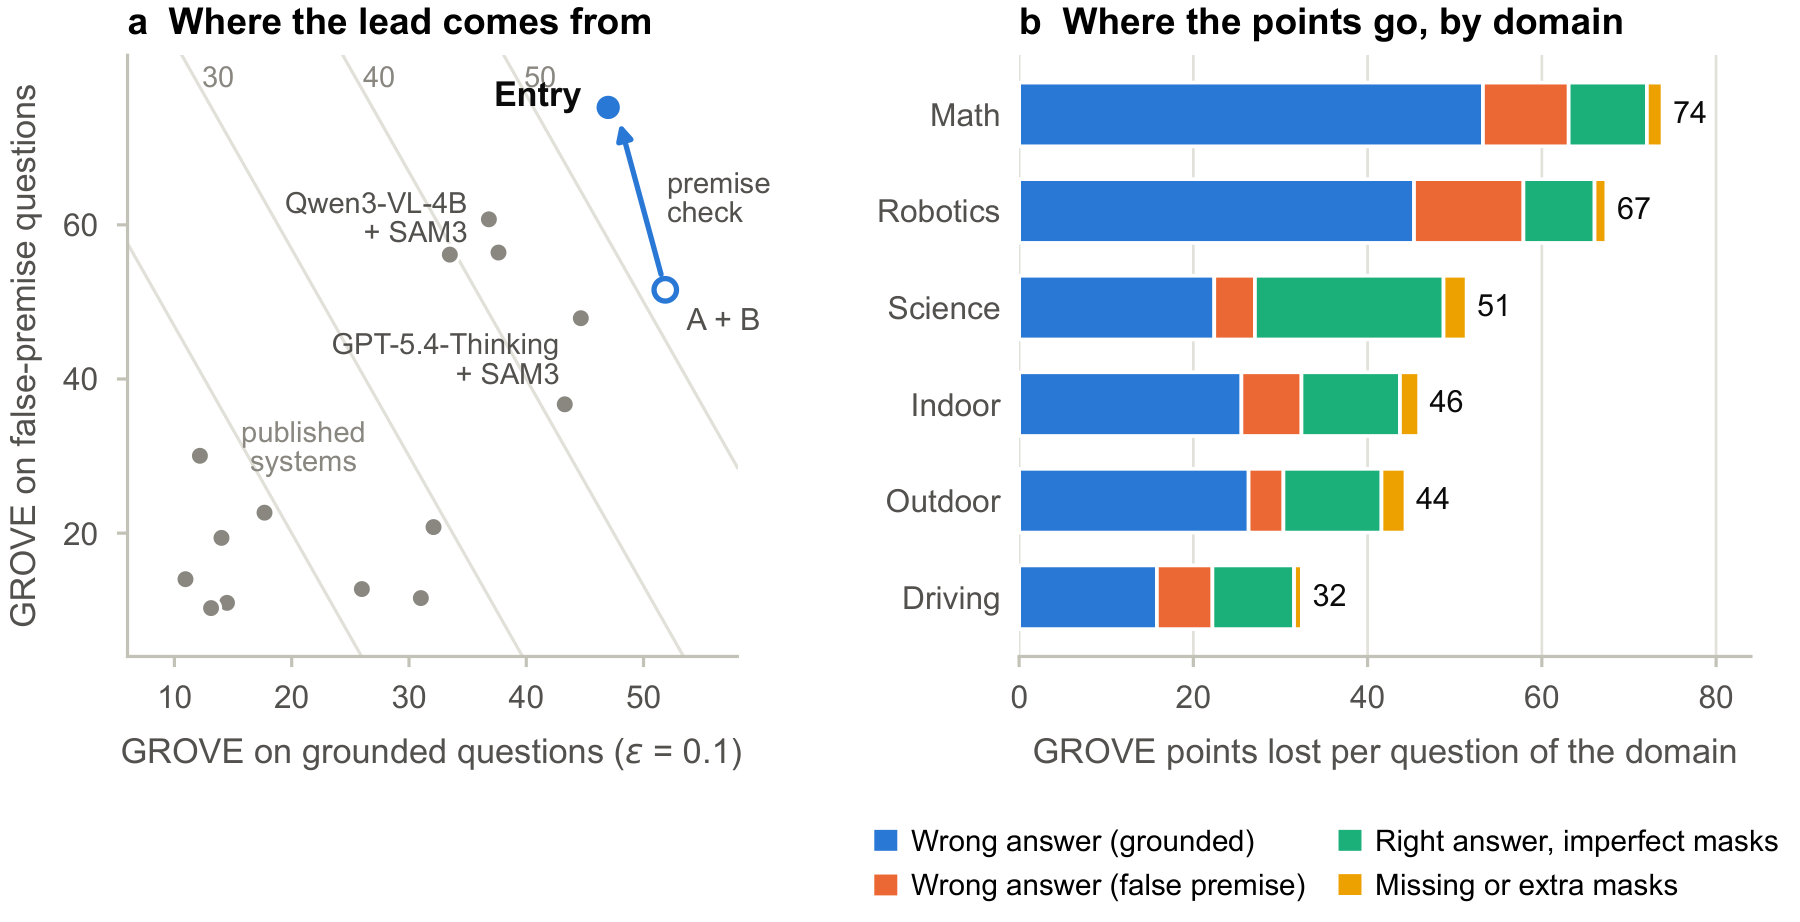
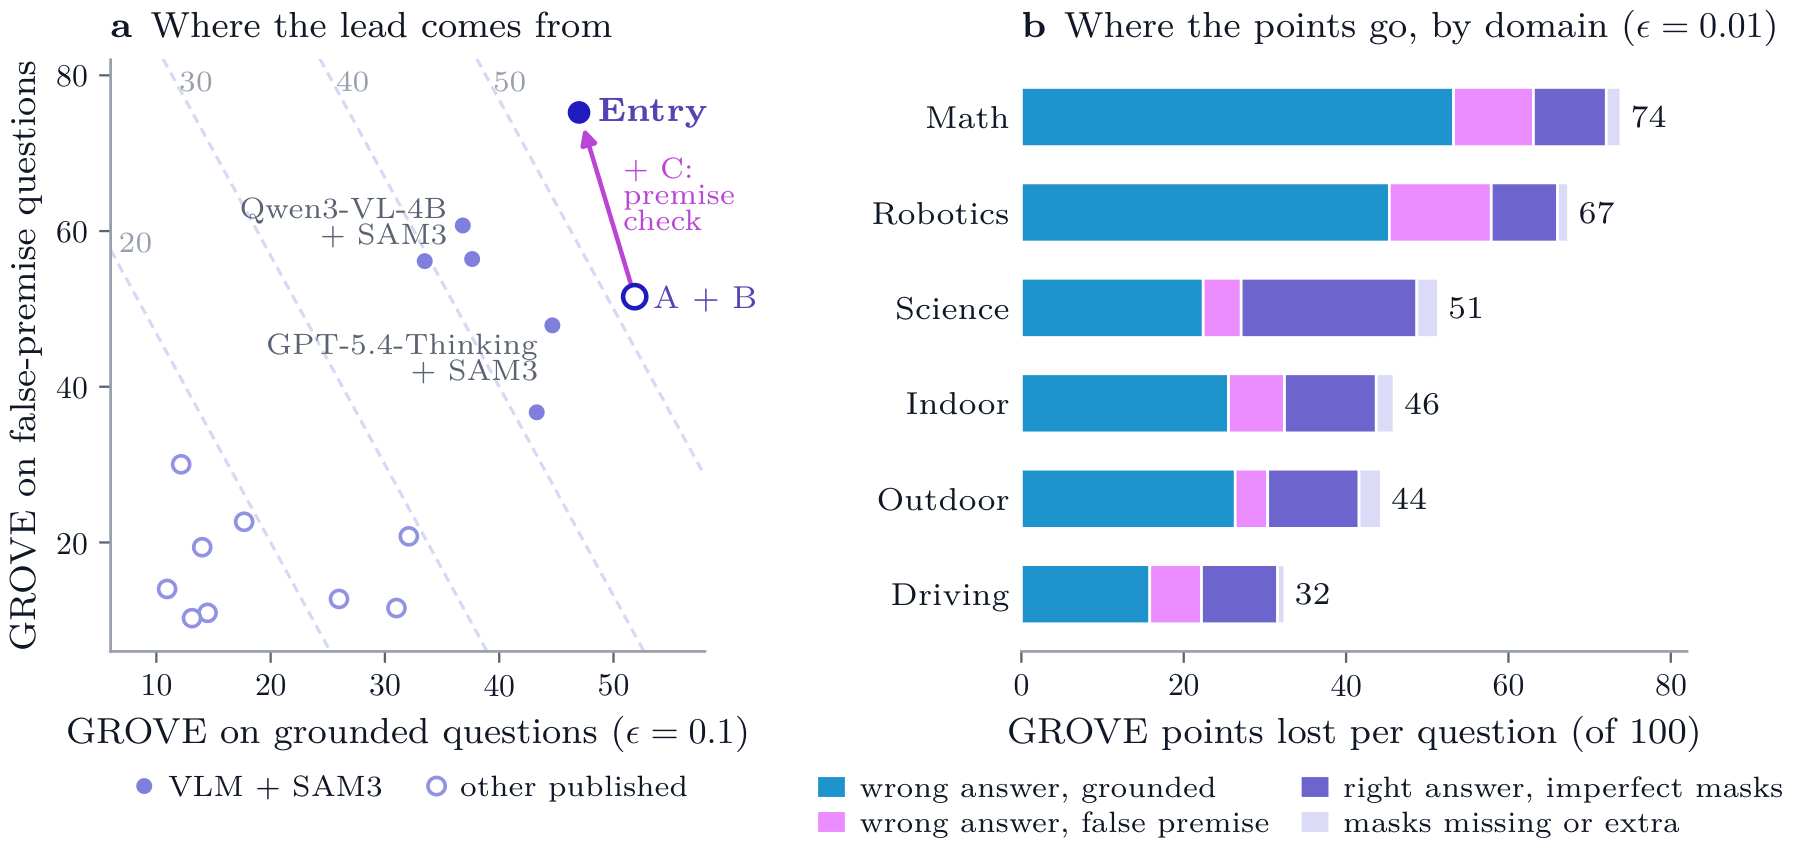
README figures: restyled entry, premise-check and transfer plots from the paper
- images/: re-render the three figures the paper restyled (new palette and
  fonts); the pipeline and qualitative figures are unchanged.
- README.md: the transfer caption follows the paper's (indigo agreeing signs,
  raspberry disagreeing, shaded entry rows and same-sign quadrants), and two
  alt texts describe the new marks and the premise check's overall row.

diff --git a/README.md b/README.md
@@ -198,7 +198,7 @@ The proxy guided every decision. The first two stages were scored on VistaQA aft
 
 <p align="center">
   <a href="images/premise-check.png">
-    <img src="images/premise-check.png" alt="Left: horizontal bars of the premise check's gain on false-premise questions and loss on grounded questions per domain and task, with the net marked; the net is negative for robotics, identification, and counting. Right: per-domain operating points, the share of false-premise answers replaced against the share of grounded answers replaced; robotics sits at 34% false alarms, and the two dev sets sit above every VistaQA domain." width="860">
+    <img src="images/premise-check.png" alt="Left: horizontal bars of the premise check's gain on false-premise questions and loss on grounded questions per domain and task, with the net marked; the net is negative for robotics, identification, and counting, and +3.5 overall. Right: per-domain operating points, the share of false-premise answers replaced against the share of grounded answers replaced; robotics sits at 34% false alarms, and the two dev sets sit above every VistaQA domain." width="860">
   </a>
   <br>
   <sub><strong>The premise check gains on false premises everywhere and pays for it on grounded questions.</strong> (a) Change in each group's GROVE when the check is added to answers and boxes: points gained on false-premise questions, points lost on grounded ones, and the net. The net is negative only for robotics, identification, and counting. (b) The share of false-premise answers the check replaces against its false alarms, per domain. Robotics pays 34% false alarms for 60% of its false premises, and both dev sets overstate the check's recall. From the paper.</sub>
@@ -252,10 +252,10 @@ Brackets are paired-bootstrap 95% intervals in GROVE points (AWQ judge, ε = 0.0
 
 <p align="center">
   <a href="images/transfer.png">
-    <img src="images/transfer.png" alt="Left: a forest plot of twelve changes, each with its pooled dev-set effect (hollow) and VistaQA effect (filled) and 95% intervals; only the premise check and the 8B weight edit sit clearly above zero on both. Right: dev effect plotted against VistaQA effect, with most points far from the diagonal." width="860">
+    <img src="images/transfer.png" alt="Left: a forest plot of twelve changes, each with its pooled dev-set effect (hollow) and VistaQA effect (filled) and 95% intervals, marked with a check when the two signs agree and a cross when they do not; only the premise check and the 8B weight edit sit clearly above zero on both. Right: dev effect plotted against VistaQA effect, with most points far from the diagonal." width="860">
   </a>
   <br>
-  <sub><strong>Most dev-set effects did not reappear on VistaQA.</strong> (a) Each change's pooled dev-set effect (hollow marks) and VistaQA effect (filled marks), with 95% intervals, sorted by the VistaQA effect; blue rows agree in sign and orange rows do not. (b) The same pairs as points; a change that transferred lies near the diagonal. From the paper.</sub>
+  <sub><strong>Most dev-set effects did not reappear on VistaQA.</strong> (a) Each change's pooled dev-set effect (hollow marks) and VistaQA effect (filled marks), with 95% intervals, sorted by the VistaQA effect. Indigo marks a change whose two signs agree (✓) and raspberry one whose signs do not (✗); the shaded rows are the entry's two stages. (b) The same pairs as points; a change that transferred lies near the diagonal, in a shaded quadrant where the two signs agree. From the paper.</sub>
 </p>
 
 The dev sets gave the right sign for 5 of 12 changes, and the two gains that held both target false premises. We read this as absence carrying over better than appearance. A missing object poses much the same problem on COCO as on VistaQA, whereas a new backbone or prompt meets images that the proxies only approximate.
